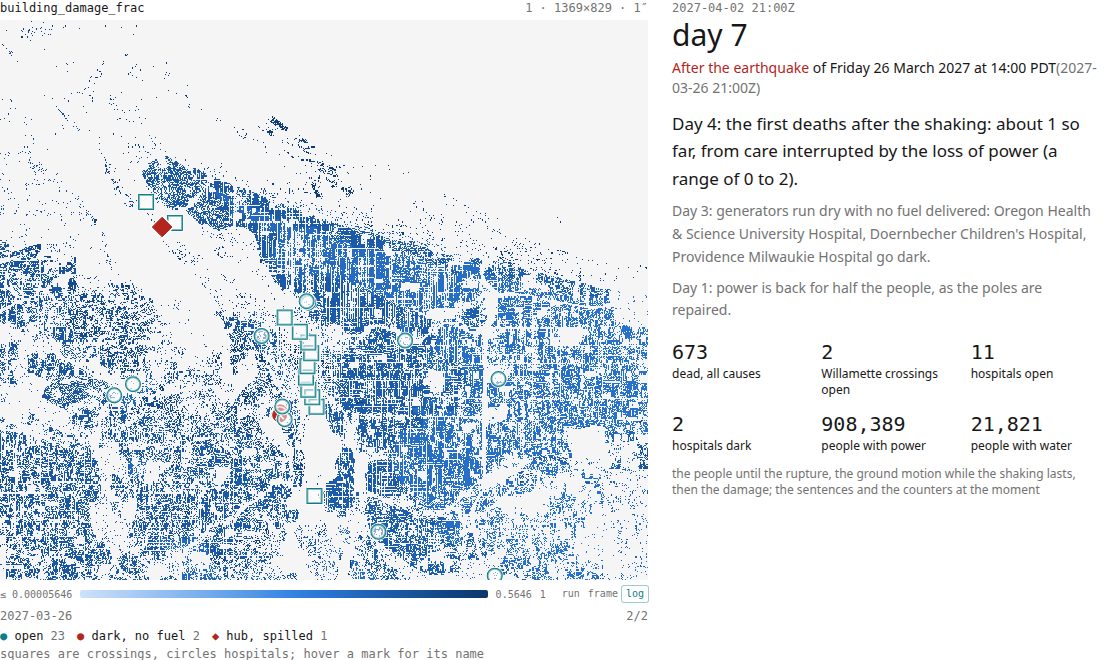
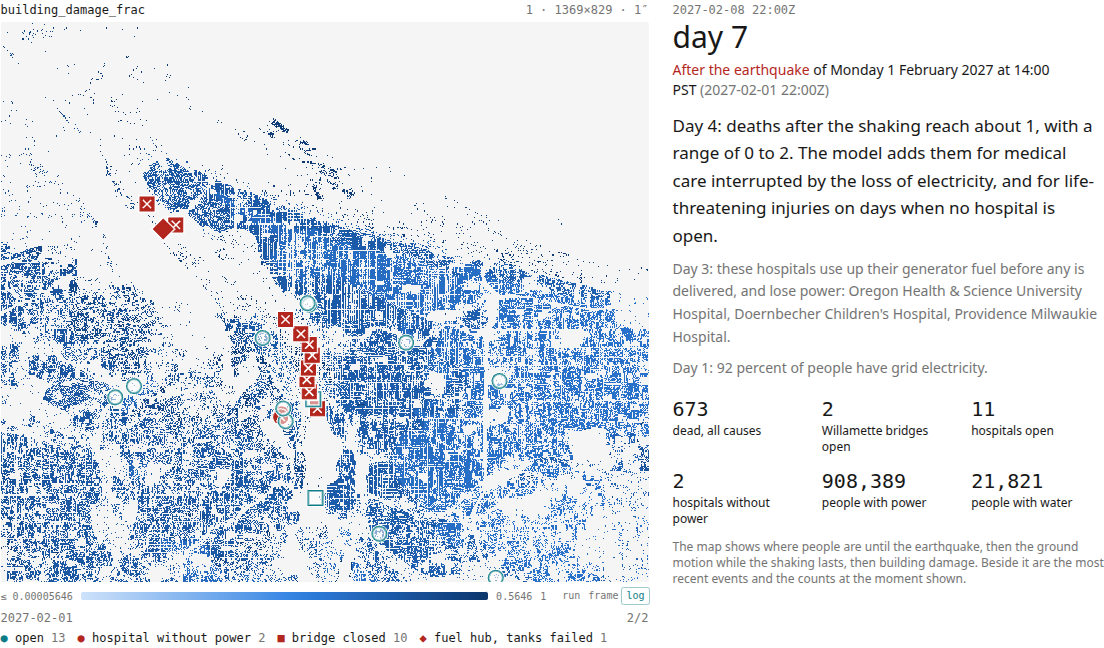
Portland: the run is the calendar year 2027, closed bridges are marked on the map, a new cover. In computed mode a bridge now stays open until its component state says down, so its closure is published and the map marks it (ten closed bridges were drawn as open). The run is 1 January 2027 to 1 Janua
Claude-Session: https://claude.ai/code/session_018TGCFiQHbUYn12HkNti2xk

diff --git a/crates/modules/src/lifelines.rs b/crates/modules/src/lifelines.rs
@@ -102,7 +102,7 @@ impl Lifelines {
     pub fn describe(name: &str, p: &toml::Value) -> Describe {
         let folder = param_str(p, "folder", "portland-cascadia");
         let computed = param_str(p, "inputs", "ranges") == "computed";
-        let summary = format!("{} {}", "This module follows the year after the earthquake one day at a time. It tracks the twelve bridges over the Willamette River, thirteen hospitals and their backup generators, electricity, water, and the fuel stored at the Critical Energy Infrastructure Hub, the strip of fuel terminals in northwest Portland. It keeps an account of the hub's fuel in gallons, which must balance every day. The module has two modes. In the computed mode a second module, hazard.components, works out the fuel spill, the state of each bridge, the open roads and the electricity service, and this module uses its results. In the ranges mode it draws those outcomes at random from published ranges: Multnomah County's statement on its bridges, the Oregon Resilience Plan's restoration times and the county's 2022 study of the hub's tanks. Water service follows the Resilience Plan's range in both modes. Three inputs are guesses in both modes: how much generator fuel a hospital holds, how much fuel the emergency response uses each day, and the day fuel deliveries resume.", if computed { "This run uses the computed mode." } else { "This run uses the ranges mode." });
+        let summary = format!("{} {}", "This module follows the city after the earthquake one day at a time. It tracks the twelve bridges over the Willamette River, thirteen hospitals and their backup generators, electricity, water, and the fuel stored at the Critical Energy Infrastructure Hub, the strip of fuel terminals in northwest Portland. It keeps an account of the hub's fuel in gallons, which must balance every day. The module has two modes. In the computed mode a second module, hazard.components, works out the fuel spill, the state of each bridge, the open roads and the electricity service, and this module uses its results. In the ranges mode it draws those outcomes at random from published ranges: Multnomah County's statement on its bridges, the Oregon Resilience Plan's restoration times and the county's 2022 study of the hub's tanks. Water service follows the Resilience Plan's range in both modes. Three inputs are guesses in both modes: how much generator fuel a hospital holds, how much fuel the emergency response uses each day, and the day fuel deliveries resume.", if computed { "This run uses the computed mode." } else { "This run uses the ranges mode." });
         let power_note = if computed { "computed each day by the hazard.components module from the transmission structures that are standing" } else { "a straight line from no service to full service, ending on a day drawn at random from the Oregon Resilience Plan's range of one to three months" };
         let mut d = Describe::new("lifelines.recovery", name, &summary)
             .priority(2).dt("1 day after the rupture")
@@ -138,7 +138,7 @@ impl Lifelines {
             .asset(&format!("events/{folder}"), "the input tables and the map of residents")
             .view_film("the clock", "occupants,quake_pga_g,building_damage_frac", "The map shows where people are until the earthquake, then the ground motion while the shaking lasts, then building damage. Beside it are the most recent events and the counts at the moment shown.")
             .view("story", "what happens", "crossing", "one sentence per event, newest first, each with its source")
-            .view("counter", "dead, all causes", "deaths.total", "deaths in buildings, at the fuel hub and in the year after the shaking, as totalled by the aftermath module")
+            .view("counter", "dead, all causes", "deaths.total", "deaths in buildings, at the fuel hub and in the days after the shaking, as totalled by the aftermath module")
             .view("counter", "Willamette bridges open", "lifeline.crossings_open", "of the twelve in the modelled area")
             .view("counter", "hospitals open", "lifeline.hospitals_open", "undamaged, with grid electricity or a generator that has fuel")
             .view("counter", "hospitals without power", "lifeline.hospitals_dark", "undamaged, but with no grid electricity and no generator fuel")
@@ -294,8 +294,10 @@ impl Module for Lifelines {
                     self.spill(ctx, released, released * self.hub.river_share, lp, "CEI Hub Seismic Risk Analysis (ECONorthwest, Salus Resilience and Enduring Econometrics, 2022). It estimates a release of 94.6 to 193.7 million gallons out of 233.5 million held, with 43 percent reaching the river. The 233.5 million is the report's 67 percent fill applied to 332.7 million gallons of active capacity. This run draws its release at random within the range");
                 }
                 // the crossings (computed mode: set by component.state events as they arrive)
-                if self.inputs == "computed" { for b in &mut self.bridges { b.reopen_day = i64::MAX; } }
-                for b in &mut self.bridges { b.open = b.reopen_day == 0; }
+                // In computed mode a bridge stays open until its component.state says it is down, so the
+                // closure is published as lifeline.failed and the map marks it (it was closed here first,
+                // silently, until 2026-11-12).
+                if self.inputs != "computed" { for b in &mut self.bridges { b.open = b.reopen_day == 0; } }
                 if self.inputs != "computed" { for b in self.bridges.clone() { if !b.open { ctx.publish_at(b.cell, "lifeline.failed", json!({ "kind": "bridge", "name": b.name, "reopen_day": b.reopen_day })); } } }
                 let closed = self.bridges.iter().filter(|b| !b.open).count();
                 let soonest = self.bridges.iter().filter(|b| !b.open).map(|b| b.reopen_day).min().unwrap_or(0);

diff --git a/crates/modules/src/aftermath.rs b/crates/modules/src/aftermath.rs
@@ -22,6 +22,7 @@ pub struct Aftermath {
     lat_s: f64, lat_n: f64, lon_w: f64, lon_e: f64, res_arcsec: f64,
     folder: String,
     month_days: i64,
+    #[serde(default)] summary_day: i64,
     claims: Vec<Claim>,
     power_dependent_share: f64,
     residents_total: f64,
@@ -45,6 +46,7 @@ impl Aftermath {
             res_arcsec: param_f64(p, "res_arcsec", 1.0),
             folder: param_str(p, "folder", "portland-cascadia").to_string(),
             month_days: param_f64(p, "month_days", 30.0) as i64,
+            summary_day: param_f64(p, "summary_day", 365.0) as i64,
             claims: Vec::new(), power_dependent_share: 0.0, residents_total: 0.0,
             quake_deaths: 0.0, hub_deaths: 0.0, injuries_life: 0.0, injuries_hospital: 0.0, agents_dead: None, untreated: 0.0,
             deaths: Vec::new(), deaths_low: 0.0, deaths_high: 0.0,
@@ -82,6 +84,7 @@ impl Aftermath {
             .priority(3).dt("1 day, on the lifelines' state")
             .param("folder", folder, "", "the folder of input data for this event, with the table of rates and the map of residents")
             .param("month_days", param_f64(p, "month_days", 30.0), "d", "the Oregon Resilience Plan's one-month rule: a business without services for this long tends to leave. The module counts the people whose electricity or water is still out on this day")
+            .param("summary_day", param_f64(p, "summary_day", 365.0), "d", "the day after the earthquake on which the module sums up in a sentence; set it to the run's last day")
             .subscribe("quake.toll", "the buildings module's dead and injured, once the shaking ends").subscribe("agents.toll", "the agents' dead, which the total uses when a run has an agents module").subscribe("lifeline.state", "the lifelines module's daily state: hospitals open, the shares of people with electricity and water, deaths at the fuel hub")
             .publish("after.crossing", "{ kind, day, sentence, source, confidence } the sentences shown on the run page: the first deaths after the shaking, the one-month count, the count after a year")
             .report("deaths.total", "people").report("after.deaths", "people").report("after.deaths_low", "people").report("after.deaths_high", "people")
@@ -167,7 +170,7 @@ impl Module for Aftermath {
                 let after = self.after_total();
                 if after >= 1.0 { let (a, l, h) = (after, self.deaths_low, self.deaths_high); self.say(ctx, "first-after", format!("Day {}: deaths after the shaking reach about {:.0}, with a range of {:.0} to {:.0}. The model adds them for medical care interrupted by the loss of electricity, and for life-threatening injuries on days when no hospital is open.", self.day, a, l, h), "Kishore and others 2018, on Puerto Rico after Hurricane Maria, for the death rate per person per day without electricity. The rate for untreated injuries is a guess. Both are rows of the claims table", "an analogy and a guess"); }
                 if self.day == self.month_days { let (pw, ww) = (self.over_month_power, self.over_month_water); self.say(ctx, "one-month", format!("Day {}: a month after the earthquake, about {} people are still without electricity and {} without water. The Oregon Resilience Plan gives one month without services as the point past which a business tends to leave.", self.day, crate::lifelines::commas(pw), crate::lifelines::commas(ww)), "the Oregon Resilience Plan (2013) for the one-month rule; this run's electricity and water service for the counts", "a published rule applied to this run's restoration schedules"); }
-                if self.day == 365 { let (a, l, h) = (after, self.deaths_low, self.deaths_high); self.say(ctx, "year", format!("One year after the earthquake: about {:.0} people died in the shaking and at the fuel hub, and about {:.0} more in the year that followed (range {:.0} to {:.0}). Residents spent {:.1} million person-days without electricity and {:.0} million without water.", self.agents_dead.unwrap_or(self.quake_deaths) + self.hub_deaths, a, l, h, self.person_days_power / 1e6, self.person_days_water / 1e6), "the rates switched on in the claims table: one from an analogous disaster and one guess", "a sum of an analogy and guesses"); }
+                if self.day == self.summary_day { let (a, l, h) = (after, self.deaths_low, self.deaths_high); self.say(ctx, "year", format!("Day {}: by this day about {:.0} people have died in the shaking and at the fuel hub, and about {:.0} more in the days since (range {:.0} to {:.0}). Residents have spent {:.1} million person-days without electricity and {:.0} million without water.", self.day, self.agents_dead.unwrap_or(self.quake_deaths) + self.hub_deaths, a, l, h, self.person_days_power / 1e6, self.person_days_water / 1e6), "the rates switched on in the claims table: one from an analogous disaster and one guess", "a sum of an analogy and guesses"); }
                 self.report_all(ctx);
             }
             _ => {}

diff --git a/projects/anselm/portland-cascadia/README.md b/projects/anselm/portland-cascadia/README.md
@@ -1,4 +1,4 @@
-# Portland in the year after a Cascadia earthquake
+# Portland after a Cascadia earthquake
 
 On 12 November 2026 the Portland City Council voted to require the fuel terminals on the
 Willamette River to cut their storage capacity by at least a fifth. The terminals stand on ground that is
@@ -10,8 +10,9 @@ less fuel means a smaller spill and a smaller reserve.
 
 This project is a simulation built to look at both sides of that trade-off in one model. It takes
 a magnitude 9 earthquake on the Cascadia subduction zone, sets it at 2 p.m. on Monday 1 February
-2027, and follows Portland for a year after it. Each run begins a month earlier, on 1 January, so
-the city is seen working before the earthquake. The model tracks which buildings, fuel tanks,
+2027, and follows Portland to the end of that year. Each run covers the calendar year: it begins
+on 1 January, so the city is seen working for a month before the earthquake, and it ends eleven
+months after it. The model tracks which buildings, fuel tanks,
 bridges, power structures and roads are damaged and then, day by day, who has electricity, which
 hospitals have power, how much fuel is left and how many people die. The date is a scenario choice and not a prediction. Nobody
 knows when the fault will next rupture.
@@ -134,7 +135,7 @@ assigned a damage state by a random draw against a fragility curve of its own. A
 number that fixes those draws, so two runs with the same seed give the same result and runs with
 different seeds show how much depends on chance.
 
-The model then steps through the following year one day at a time, and here the parts depend on
+The model then steps through the rest of the year one day at a time, and here the parts depend on
 one another. Take a hospital whose building survives. If the grid still reaches it, it stays open.
 If the grid does not, it runs on its generators, and the model gives every hospital 72 hours of
 generator fuel, which is a guess. After that it needs a delivery. A fuel truck has to find a route
@@ -268,10 +269,10 @@ table 2027-02-04T22:00Z lifeline.crossings_open=bridges_open service.power_share
 ```
 
 **Bridges.** Ten of the twelve bridges close in the base run. Only Tilikum Crossing and the
-Sellwood Bridge, the two newest, still join the two banks of the river. The Broadway Bridge reopens after 21 days and the Marquam and Burnside bridges after 120
-days. The other seven take the worst level of damage and stay closed for 365 days, the repair time
-this project assigned to that level for an older bridge. They reopen on the last day of the run,
-so a full year without them is as much as the model can say.
+Sellwood Bridge, the two newest, still join the two banks of the river. The Broadway Bridge
+reopens after 21 days and the Marquam and Burnside bridges after 120 days. The other seven take the worst level of damage and are still closed when the run ends,
+eleven months after the earthquake. The repair time this project assigned to that level for an
+older bridge is 365 days, which is a judgement.
 
 Multnomah County says none of the downtown bridges is expected to be usable immediately after a
 major earthquake, and that it could be weeks to years before any is. The model's result resembles
@@ -302,10 +303,10 @@ day 3. The true figure for this scenario is unknown, and the model cannot narrow
 represents more of the power system. The model also does not represent hospital capacity. It has
 no beds, staff or supplies, and no damage inside a hospital building that still stands.
 
-### A year after
+### At the end of the year
 
 ```esim
-table 2028-02-01T22:00Z after.deaths=deaths_after_the_shaking fuel.consumed_gal=fuel_used_by_the_response fuel.hub_gal=fuel_at_the_hub
+table 2028-01-01T08:00Z after.deaths=deaths_after_the_shaking fuel.consumed_gal=fuel_used_by_the_response fuel.hub_gal=fuel_at_the_hub
 ```
 
 **Roads.** In the base run 22 percent of the emergency route length is open during the first week,
@@ -336,10 +337,10 @@ answer it.
 base run 10 percent of people have water on day 30 and half on day 150, and everyone has it by
 day 300. That leaves 841,676 people without water for more than a month.
 
-**Deaths after the shaking.** The model adds deaths in the following year by two rules. One applies
+**Deaths after the shaking.** The model adds deaths in the months that follow by two rules. One applies
 a death rate to every day a person spends without electricity, standing for medical care that is
 interrupted. The other lets people with life-threatening injuries die on any day when no hospital
-is open. The base run adds 2 deaths over the year, with a range of 0.3 to 3.7, all from
+is open. The base run adds 2 deaths by the end of the year, with a range of 0.3 to 3.7, all from
 interrupted care. The `ranges` variant adds 66, with a range of 11 to 121. The whole difference is
 the length of the power cut: 443,000 person-days without electricity in the base run against 14.5
 million in the `ranges` variant. Nobody dies of untreated injuries in either run, because some

diff --git a/docs/system/limits.md b/docs/system/limits.md
@@ -229,7 +229,7 @@ holds the history.
 
 ## The earthquake
 
-Portland in the year after a Cascadia earthquake (`anselm/portland-cascadia`). Status as of the runs
+Portland after a Cascadia earthquake (`anselm/portland-cascadia`). Status as of the runs
 of 12 November 2026; the [project page](/anselm/portland-cascadia) gives the figures in full.
 
 - **No record to score against.** The ground shaking is the output of DOGAMI's scenario model, and
@@ -256,8 +256,8 @@ of 12 November 2026; the [project page](/anselm/portland-cascadia) gives the fig
   has it by day 22, where the Oregon Resilience Plan expects one to three months. The number of
   hospitals that lose power and the deaths after the shaking both depend on this result.
 - **Bridges.** Ten of the twelve Willamette bridges close in the base run. The seven that take the
-  worst level of damage stay closed for 365 days, a judgement, and so reopen on the run's last
-  day. The `burnside-ready` variant has no effect on the computed runs, because the setting it
+  worst level of damage are given a 365-day repair, a judgement, and are still closed when the
+  run ends, eleven months after the earthquake. The `burnside-ready` variant has no effect on the computed runs, because the setting it
   changes is read only by the `ranges` version.
 - **Fuel use.** The response's daily use, the hospitals' generator fuel and the date and rate of
   resupply are guesses. The response's use is counted only once a fuel truck can reach a hospital
@@ -267,7 +267,7 @@ of 12 November 2026; the [project page](/anselm/portland-cascadia) gives the fig
 - **Deaths after the shaking.** These rest on one rate, deaths per person-day without electricity
   in Puerto Rico after Hurricane Maria, and on a guessed daily rate for the badly injured with no
   open hospital. Cold and unsafe water are in the table and switched off for want of a source.
-  The base run adds 2 deaths over the year and the `ranges` variant 66. The difference is the
+  The base run adds 2 deaths by the end of 2027 and the `ranges` variant 66. The difference is the
   length of the power cut.
 - **The agents** (`people.agents`, 93,520 agents of ten people each) are placed at a home and a
   workplace and decide nothing. Nobody leaves, shelters, travels or waits at a hospital.

diff --git a/devlog/20261112-portland-run-page-prose.md b/devlog/20261112-portland-run-page-prose.md
@@ -101,3 +101,28 @@ No figure in the README's prose depends on either.
 Seen while checking and not fixed: on a computed-mode run page the map's key counts the ten
 closed bridges as open and draws them as open marks; only the ranges mode marks a closed bridge.
 The counter beside the map is right (2 open).
+
+## The calendar year, the bridge marks, the cover, the deploy
+
+Anselm: "Fix the bridge bug. Run sim for the calendar year of 2027 only. Update photo. Commit
+push deploy."
+
+- **The bridge marks.** In computed mode the rupture handler in `lifelines.rs` closed every
+  bridge silently and waited for `component.state`; when that arrived the bridge was already
+  closed, so `lifeline.failed` was never published and the map drew ten closed bridges as open.
+  A bridge now stays open until its component state says down. The base run publishes 14
+  `lifeline.failed` events where it published 4. No number changed.
+- **The run** is the calendar year 2027 in Pacific time: 2027-01-01T08:00Z to 2028-01-01T08:00Z,
+  the earthquake still at 2 PM PST on 1 February, so 333 daily steps follow it. Consequences:
+  the seven bridges with a 365-day repair are still closed at the end (5 open in the base run);
+  the year's fuel used and delivered are about 10 million gallons lower than in the 365-day
+  runs; the deaths after the shaking and the person-days without power and water are unchanged,
+  since power is back by day 22 or 32 and water by day 300. `people.aftermath` gained
+  `summary_day` (default 365, 333 in the manifest) because its closing sentence was tied to
+  day 365.
+- **The words** that assumed a full year: the README's title, opening, bridges paragraph and last
+  results heading; the project's title ("Portland after Cascadia") and description; the root
+  README; the limits page; two strings in `lifelines.rs`.
+- **The cover** is a new still of the base run at day 7 with the closed bridges marked and the
+  new key; `card.png` regenerated by `deploy/cards.sh`.
+- Pushed and deployed to esimv1 on his word. `cargo test` (describe) and `esim regress` pass.

diff --git a/CLAUDE.md b/CLAUDE.md
@@ -367,7 +367,10 @@ how to run it. Development runs on canada1; a read-only copy is deployed to esim
   timeline): the rupture crossing carries `local`, the clock says the date in words, the timeline and every chart
   draw a red line at the event. Moved again on the night of 2026-11-12 (Anselm: "Make the sim start Jan 1. Move fault
   to Feb 1"): the event is Monday 1 February 2027, 2 PM PST (`at = 2027-02-01T22:00:00Z`, `tz_offset_h = -8`,
-  `tz_name = "PST"`), the run 2027-01-01T22:00Z to 2028-02-01T22:00Z; wet-night is `2027-02-01T10:00:00Z`.
+  `tz_name = "PST"`), the run is the calendar year 2027 in Pacific time, 2027-01-01T08:00Z to 2028-01-01T08:00Z (Anselm: "Run sim for the
+  calendar year of 2027 only"), so 333 daily steps after the event; `people.aftermath` has `summary_day` (333 in the
+  manifest) for its summing-up sentence; wet-night is `2027-02-01T10:00:00Z`. In computed mode a bridge now stays open
+  until its `component.state` says down, so `lifeline.failed` is published and the map marks the closure.
 - Portland, the page and the standing faults (2026-11-12 night, `devlog/20261112-portland-readme-rewritten.md` and
   `devlog/20261112-portland-stale-wording.md`; Anselm: "I want to try rewrite the portland cascadia fault scenario
   readme again", then "update stale portland wording overall everywhere"): the project README is a new text in the

diff --git a/README.md b/README.md
@@ -25,9 +25,9 @@ The planet pages to start with:
 - [Half Moon Bay: the breakwater and the beach](https://esimv1.exe.xyz/anselm/halfmoonbay-shoreline):
   a one-line shoreline model of the bay south of Pillar Point Harbor since the Corps built the
   breakwater, read against the Corps' and Griggs's erosion rates, with the dredge and sea level to 2075.
-- [Portland, the year after Cascadia](https://esimv1.exe.xyz/anselm/portland-cascadia): a
+- [Portland after Cascadia](https://esimv1.exe.xyz/anselm/portland-cascadia): a
   magnitude 9 earthquake on the Cascadia subduction zone as it affects Portland, set on 1 February
-  2027 and followed for a year. Buildings, fuel tanks, bridges, transmission structures and road
+  2027 and followed to the end of that year. Buildings, fuel tanks, bridges, transmission structures and road
   segments are damaged one by one on the state's published ground shaking. The runs then track
   electricity, hospitals, fuel and deaths, and compare holding less fuel at the riverside
   terminals with retrofitting the tanks. Several results disagree with the studies they are
